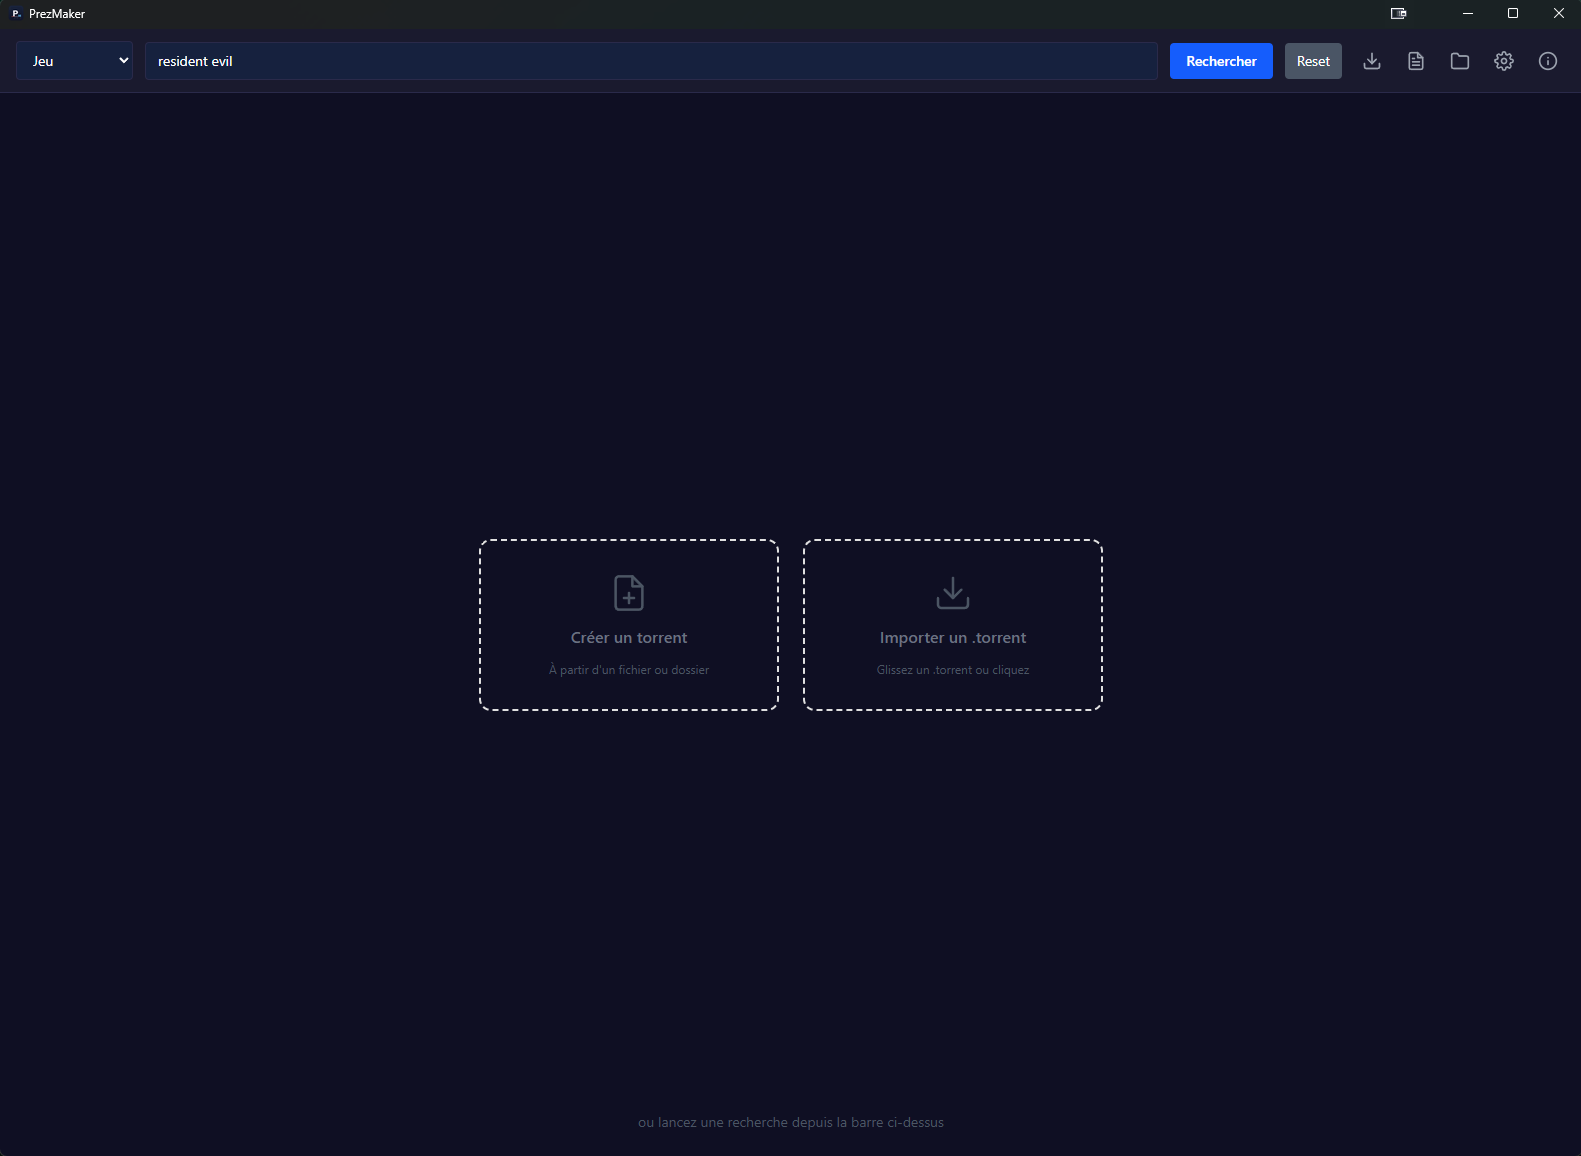
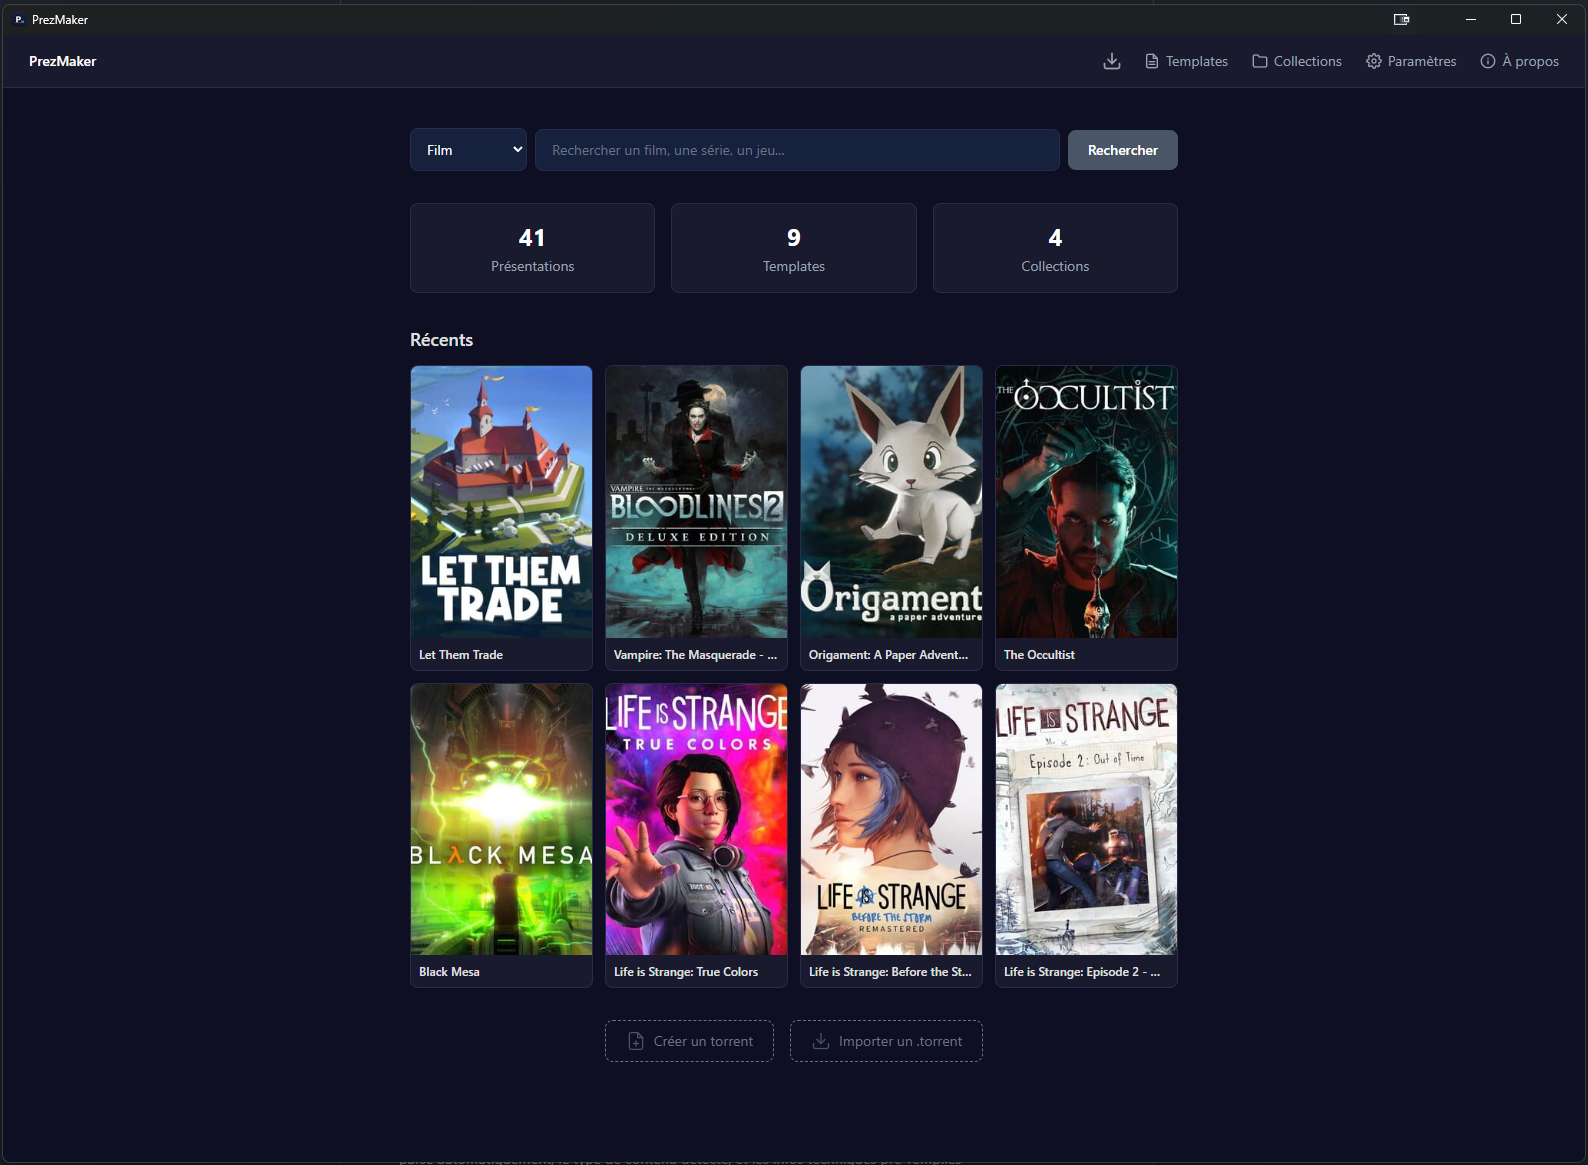
docs: mise à jour README et screenshot
- Installation : Windows uniquement (suppression macOS et Linux)
- Upload C411 : ajout format HTML, métadonnées TMDB/RAWG, journal d'upload
- Configuration : ajout clé API RAWG
- Screenshot principal mis à jour

diff --git a/README.md b/README.md
@@ -57,6 +57,9 @@ Recherchez un film, une série, un jeu ou une application, et obtenez une prése
 - **Module C411** — upload direct sur le tracker C411 via son API REST
 - **Auto-mapping** — catégorie, sous-catégorie et options pré-remplies depuis le torrent parsé
 - **Options dynamiques** — chargées depuis l'API selon la sous-catégorie choisie
+- **Format BBCode ou HTML** — choix du format de description à l'upload (HTML nécessite la permission C411)
+- **Métadonnées TMDB / RAWG** — inclusion automatique des données TMDB (films/séries) ou RAWG (jeux) dans l'upload
+- **Journal d'upload** — chaque upload est journalisé dans `%APPDATA%/prezmaker/upload_log.txt` pour diagnostic
 - **Lier un torrent** — associez un `.torrent` à une présentation faite manuellement pour l'uploader
 
 ### Collections
@@ -129,9 +132,6 @@ Téléchargez la dernière version depuis la page [Releases](../../releases/late
 | Plateforme | Fichier |
 |---|---|
 | Windows | `.exe` (NSIS) ou `.msi` |
-| macOS (Apple Silicon) | `.dmg` |
-| macOS (Intel) | `.dmg` |
-| Linux | `.deb`, `.AppImage` ou `.rpm` |
 
 L'application se met à jour automatiquement au lancement lorsqu'une nouvelle version est disponible.
 
@@ -147,6 +147,7 @@ Vous pouvez aussi accéder aux paramètres à tout moment via l'icône engrenage
 | **IGDB Client ID / Secret** | Pour rechercher des jeux | Oui (jeux) |
 | **LLM Provider + API Key** | Pour les descriptions IA et la génération NFO | Non |
 | **C411 API Key** | Pour l'upload direct sur C411 | Non |
+| **RAWG API Key** | Pour les métadonnées jeux dans l'upload C411 | Non |
 | **Pseudo** | Signature dans le footer des présentations | Non |
 | **Couleur du titre** | Code couleur hex par défaut pour les titres | Non |
 

diff --git a/.claude/agent-memory/version-bumper/MEMORY.md b/.claude/agent-memory/version-bumper/MEMORY.md
@@ -1,7 +1,7 @@
 # Version Bumper - Mémoire
 
 ## Version actuelle
-- **1.31.0** (depuis 2026-03-24 : balise [youtube] + recherche auto bande-annonce)
+- **1.35.0** (depuis 2026-04-12 : renommage de templates dans l'éditeur)
 
 ## Fichiers de version à maintenir synchronisés
 1. `/apps/perso/PrezMaker/prezmaker-lib/Cargo.toml` (source de vérité)
@@ -35,6 +35,11 @@ Note: prezmaker-cli n'existe plus
 - 1.30.1 → 1.30.2 (2026-03-19) : patch bump
 - 1.30.2 → 1.30.3 (2026-03-19) : patch fix modal NFO rétrécissement en mode édition
 - 1.30.3 → 1.31.0 (2026-03-24) : feature release (balise [youtube] + recherche auto bande-annonce)
+- 1.31.0 → 1.32.0 (2026-03-XX) : feature release
+- 1.32.0 → 1.32.1 (2026-03-XX) : patch bump
+- 1.32.1 → 1.33.0 (2026-03-30) : feature release (module C411 API upload étendue + HTML C411)
+- 1.33.0 → 1.34.0 (2026-04-12) : feature release (journal d'upload C411)
+- 1.34.0 → 1.35.0 (2026-04-12) : feature release (renommage de templates dans l'éditeur)
 
 ## Règles appliquées
 - **Feature terminée** : MINOR++ (PATCH→0)

diff --git a/README.en.md b/README.en.md
@@ -95,9 +95,6 @@ Download the latest version from the [Releases](../../releases/latest) page:
 | Platform | File |
 |---|---|
 | Windows | `.exe` (NSIS) or `.msi` |
-| macOS (Apple Silicon) | `.dmg` |
-| macOS (Intel) | `.dmg` |
-| Linux | `.deb`, `.AppImage` or `.rpm` |
 
 The application updates automatically on launch when a new version is available.
 
